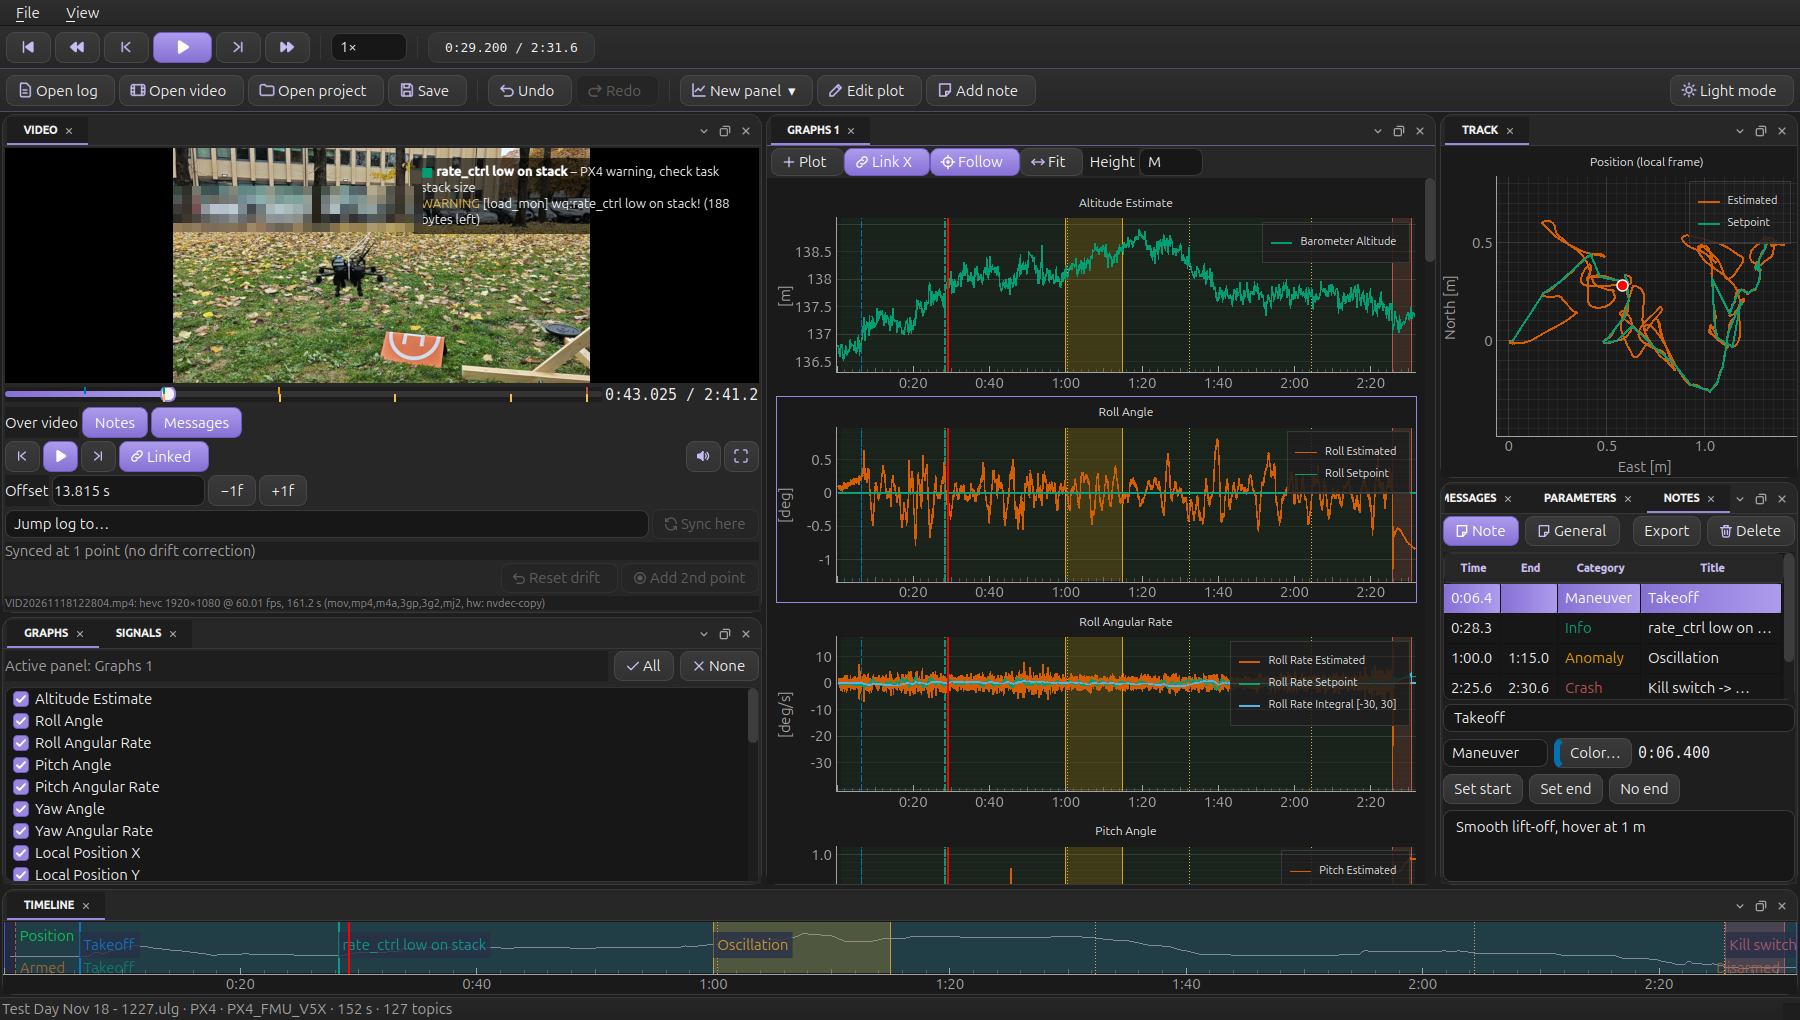
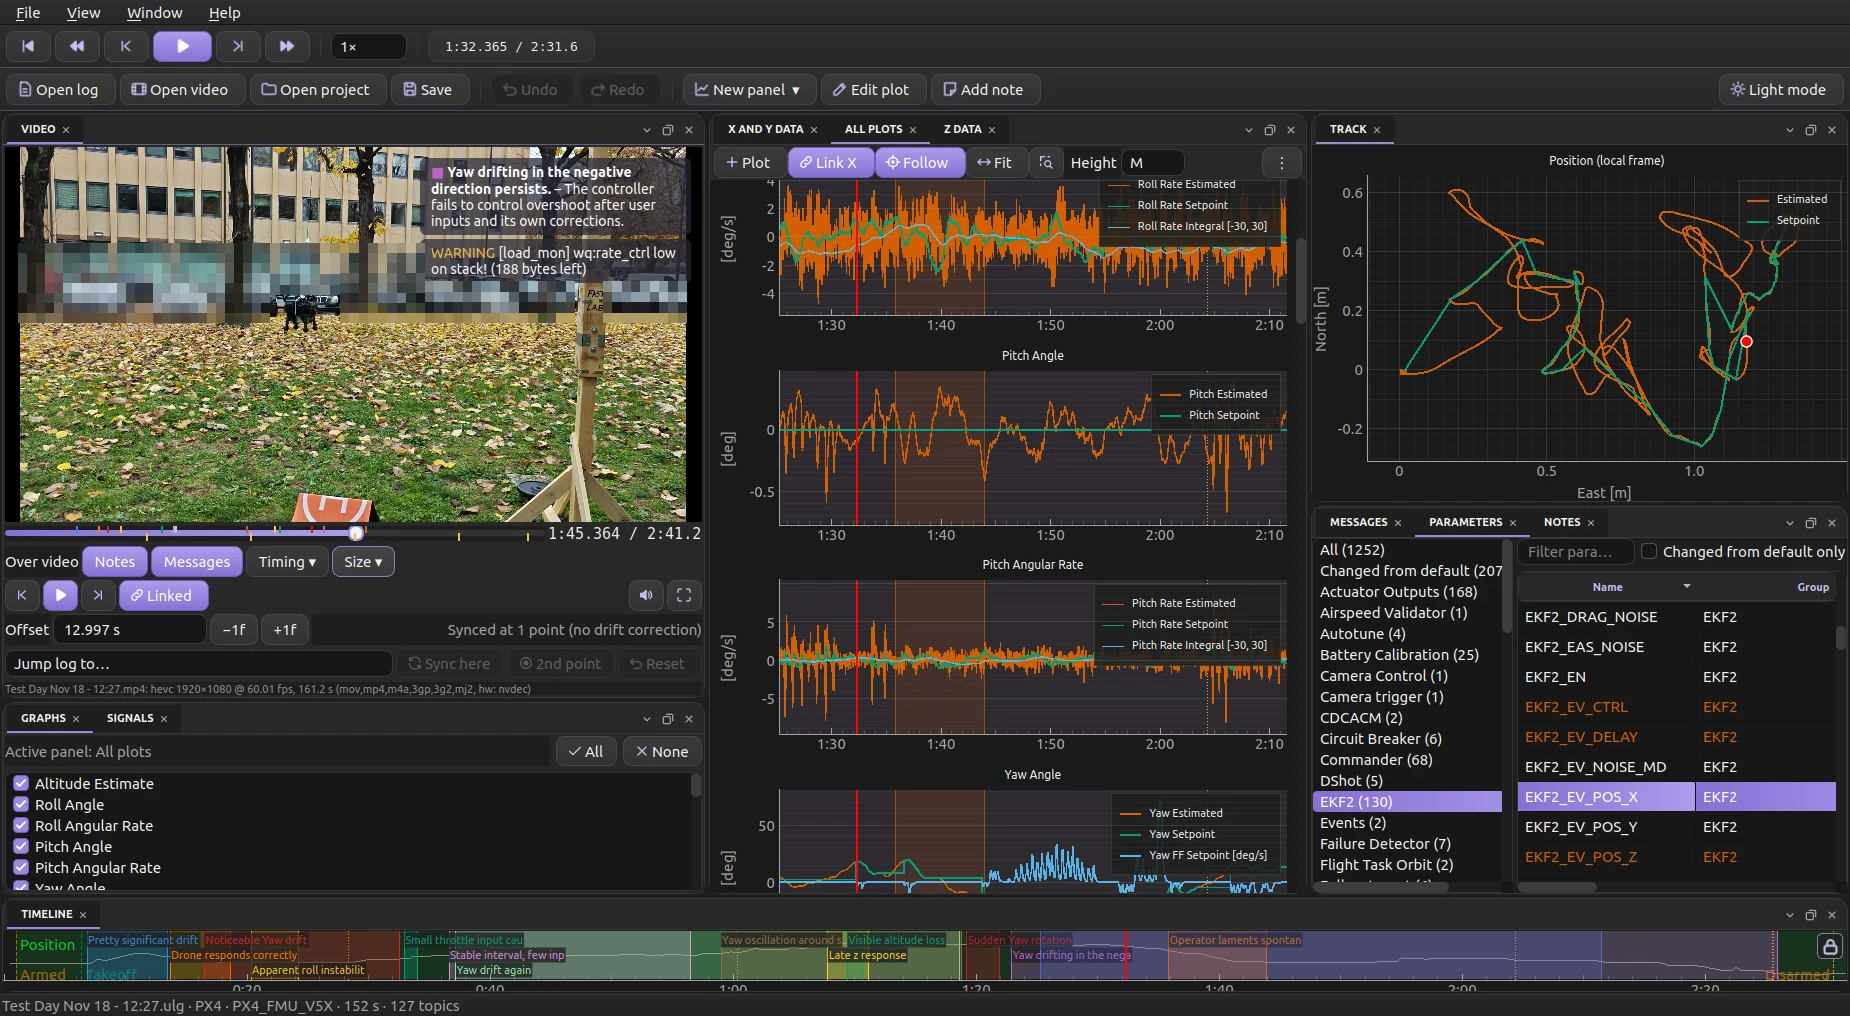
README: new screenshot for 0.2.0 (one window, 12:27 flight), caption updated

diff --git a/README.md b/README.md
@@ -17,11 +17,10 @@ undo, graph editing and a layout you can spread over several screens.
 
 ![FlightLogger: flight video synced to Flight Review graphs, track, timeline and notes](docs/screenshot.png)
 
-*A PX4 log with its ground-camera video synced: video with notes and PX4
-warnings drawn over it (left), Flight Review graphs with a note span and the
-selected plot framed (center), track and notes (right), whole-flight timeline
-(bottom). The lavender dark theme follows the look of OmniQuadGUI; a light theme
-is one click away.*
+*A PX4 log with its ground-camera video synced: a note and a PX4 warning drawn over the
+video (left), graph panels named and tabbed by topic (center), track and parameters grouped by
+category (right), whole-flight timeline with staggered note titles and its lock button (bottom).
+The lavender dark theme follows the look of OmniQuadGUI; a light theme is one click away.*
 
 ## What it adds to Flight Review
 
